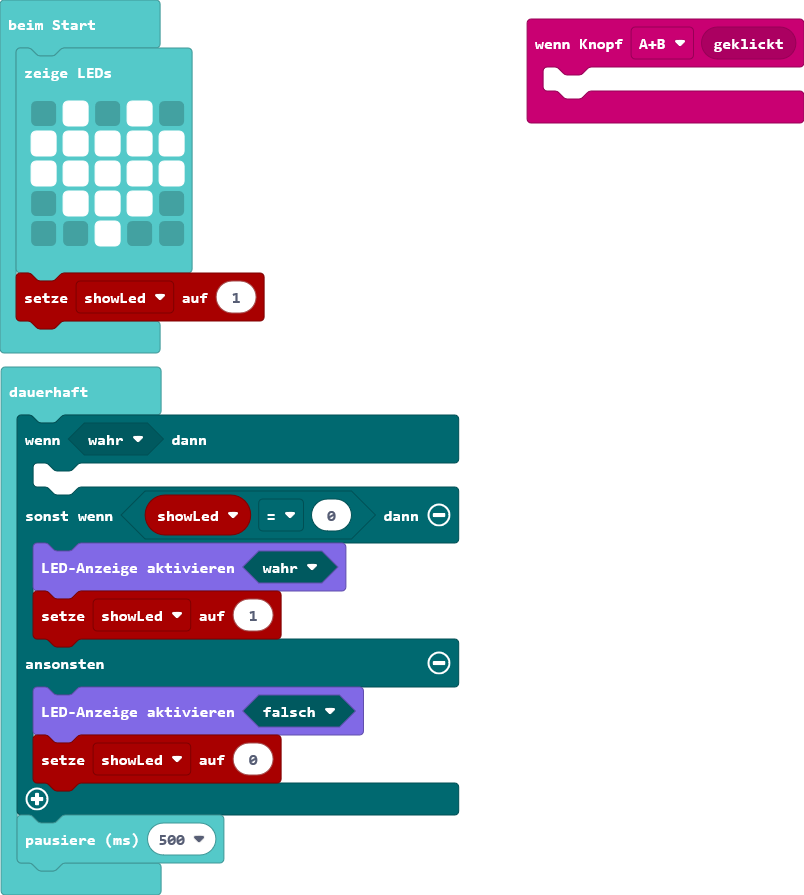
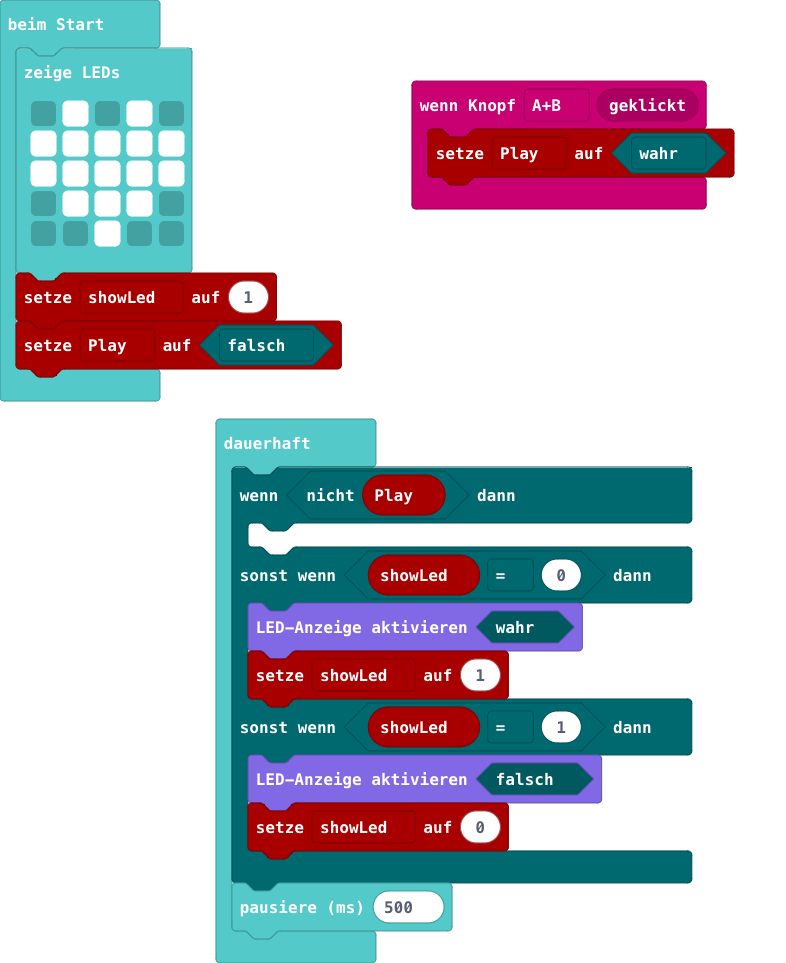
Aktualisiere pxt.json, main.blocks, main.ts

diff --git a/main.ts b/main.ts
@@ -1,6 +1,7 @@
 input.onButtonEvent(Button.AB, input.buttonEventClick(), function () {
-
+    Play = true
 })
+let Play = false
 basic.showLeds(`
     . # . # .
     # # # # #
@@ -9,9 +10,10 @@ basic.showLeds(`
     . . # . .
     `)
 let showLed = 1
+Play = false
 basic.forever(function () {
-    if (true) {
-
+    if (!(Play)) {
+    	
     } else if (showLed == 0) {
         led.enable(true)
         showLed = 1
